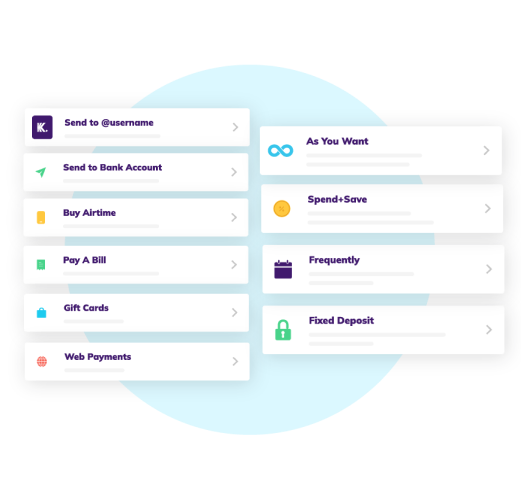
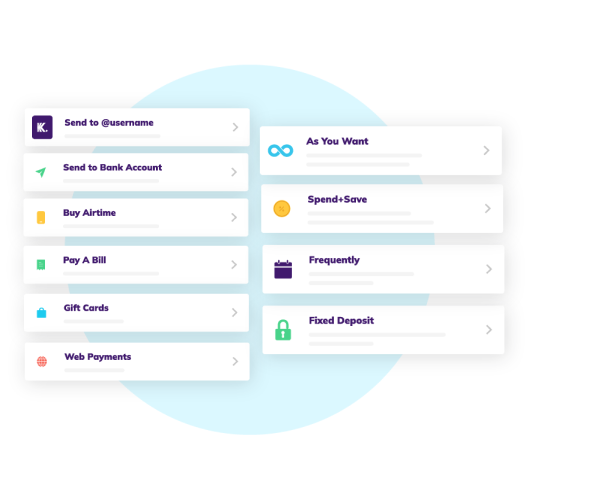
turn off access section

diff --git a/style.css b/style.css
@@ -316,6 +316,7 @@ main {
         gap: 3.125rem;
 
         div.left-side {
+            width: 50%;
 
             h1 {
                 font-weight: 900;
@@ -373,12 +374,15 @@ main {
         }
 
         div.right-side {
+            width: 50%;
+
             div.circle-container {
                 width: 100%;
 
                 div.circle {
                     border-radius: 50%;
                     border: .0625rem solid var(--color-lavender-100-light);
+                    aspect-ratio: 1 / 1;
                 }
 
                 div.large-circle {
@@ -455,6 +459,8 @@ main {
     section.its-your-money {}
 
     section.save-money {}
+
+    section.turn-off-access{}
 
     /* main content */
 }
@@ -609,9 +615,12 @@ div.get-app {
         }
 
         section.the-money-app {
+            display: flex;
+            gap: 1.875rem;
 
-            /* gap: 1.875rem; */
             div.left-side {
+                width: 100%;
+
                 p {
                     width: 100%;
                 }
@@ -619,8 +628,15 @@ div.get-app {
 
             div.right-side {
                 div.circle-container {
-                    /* width: 80%; */
-                    margin: 0 auto;
+                    
+                    div.large-circle {
+                        width: 90%;
+                        height: 90%;
+                        margin: 3.125rem auto;
+                        /* aspect-ratio: 1 / 1; */
+                    }
+
+                    div.medium-circle {}
 
                     div.small-circle {
                         img {
@@ -645,6 +661,10 @@ div.get-app {
 
         section.save-money {
             flex-direction: column;
+        }
+
+        section.turn-off-access{
+            flex-direction: column-reverse;
         }
     }
 }

diff --git a/index.html b/index.html
@@ -47,7 +47,7 @@
         </nav>
         <section class="section the-money-app">
             <div class="left-side">
-                <h1>The money app for <br> Africans.</h1>
+                <h1>The money app for Africans.</h1>
                 <p>Make free transfers, enjoy cashless payment options and earn interest on your savings with Kuda.</p>
                 <div class="store-container">
                     <a href="https://kuda.onelink.me/abUI/344e3dde/"><img src="images/app-store.png"
@@ -146,6 +146,20 @@
             </div>
             <div class="right-side">
                 <img src="images/lady-saving.png" alt="Lady saving">
+            </div>
+        </section>
+        <section class="section two-side-section turn-off-access">
+            <div class="left-side">
+                <img src="images/block-card.png" alt="">
+            </div>
+            <div class="right-side">
+                <h3>Turn off access, turn on safety.</h3>
+                <p>Life happens. Milk spills. Debit cards go missing. If that ever happens, you can block your
+                    missing card
+                    on the app so no one can use it. We’d like to see them try.</p>
+                <a href="https://kuda.com/cards"><span>Learn more about Cards</span> <i
+                        class="fa-regular fa-angle-right"></i></a>
+
             </div>
         </section>
     </main>

diff --git a/test.html b/test.html
@@ -1,0 +1,29 @@
+<!DOCTYPE html>
+<html>
+
+<head>
+    <title>Circle</title>
+    <link rel="stylesheet" href="style.css">
+    <style>
+        .circle {
+            width: 500px;
+            height: 500px;
+            background-color: blue;
+            border-radius: 50%;
+        }
+
+        @media (max-width: 768px) {
+            .circle {
+                width: 80%;
+                height: auto;
+                aspect-ratio: 1 / 1;
+            }
+        }
+    </style>
+</head>
+
+<body>
+    <div class="circle"></div>
+</body>
+
+</html>
